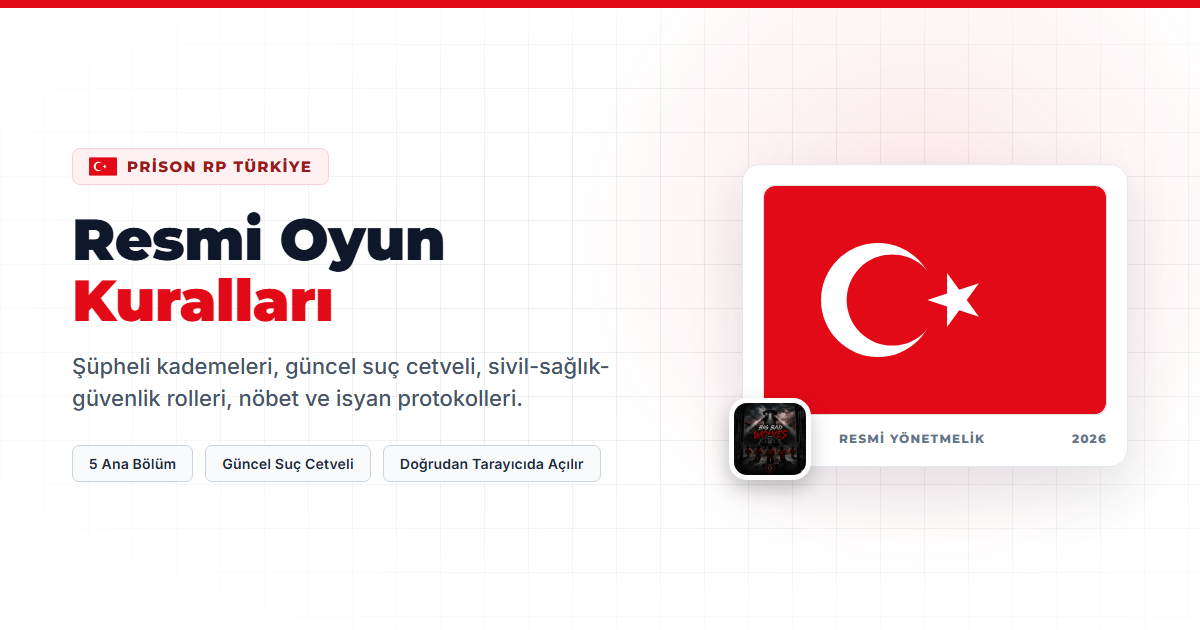
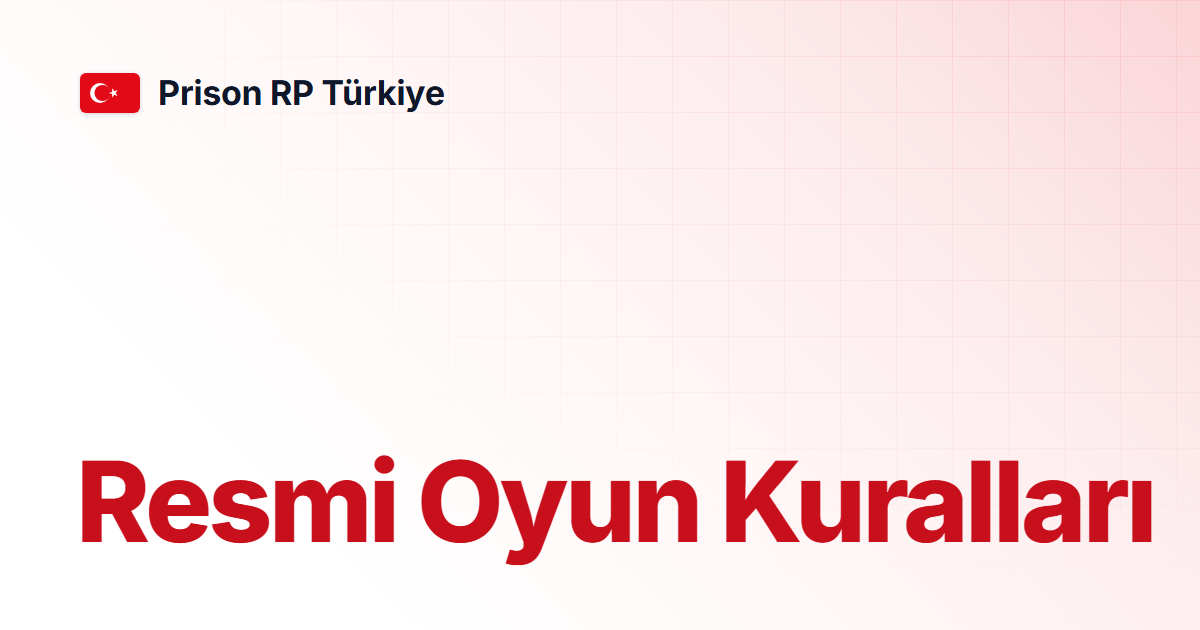
Separate official rules from staff guide; GitBook-style Turkish flag OG card

diff --git a/index.html b/index.html
@@ -13,7 +13,7 @@
   <meta property="og:title" content="Resmi Oyun Kuralları | Prison RP Türkiye">
   <meta property="og:description" content="Şüpheli kademeleri, güncel suç cetveli, sivil/sağlık/güvenlik rolleri, müdür yetkileri, nöbet esasları ve cezaevi disiplin yönetmeliği.">
   <meta property="og:url" content="https://nocternuss.github.io/prison-rp/">
-  <meta property="og:image" content="https://nocternuss.github.io/prison-rp/assets/banner-kurallar.png">
+  <meta property="og:image" content="https://nocternuss.github.io/prison-rp/assets/banner-kurallar.png?v=2">
   <meta property="og:image:type" content="image/png">
   <meta property="og:image:width" content="1200">
   <meta property="og:image:height" content="630">
@@ -22,7 +22,7 @@
   <meta name="twitter:card" content="summary_large_image">
   <meta name="twitter:title" content="Resmi Oyun Kuralları | Prison RP Türkiye">
   <meta name="twitter:description" content="Şüpheli kademeleri, güncel suç cetveli, sivil/sağlık/güvenlik rolleri, müdür yetkileri, nöbet esasları ve cezaevi disiplin yönetmeliği.">
-  <meta name="twitter:image" content="https://nocternuss.github.io/prison-rp/assets/banner-kurallar.png">
+  <meta name="twitter:image" content="https://nocternuss.github.io/prison-rp/assets/banner-kurallar.png?v=2">
 
   <link rel="icon" type="image/svg+xml" href="./assets/favicon.svg">
   <link rel="alternate icon" type="image/png" href="./assets/logo.png">
@@ -917,10 +917,6 @@
       </div>
 
       <div class="nav-actions">
-        <nav class="nav-switcher" aria-label="Belgeler Arası Geçiş">
-          <a href="./" aria-current="page" class="nav-tab is-active"><svg width="15" height="15" viewBox="0 0 24 24" fill="none" stroke="currentColor" stroke-width="2" stroke-linecap="round" stroke-linejoin="round"><path d="M4 19.5A2.5 2.5 0 0 1 6.5 17H20"/><path d="M6.5 2H20v20H6.5A2.5 2.5 0 0 1 4 19.5v-15A2.5 2.5 0 0 1 6.5 2z"/></svg><span>Kurallar</span></a>
-          <a href="./yetkili/" class="nav-tab"><svg width="15" height="15" viewBox="0 0 24 24" fill="none" stroke="currentColor" stroke-width="2" stroke-linecap="round" stroke-linejoin="round"><path d="M12 22s8-4 8-10V5l-8-3-8 3v7c0 6 8 10 8 10z"/></svg><span>Yetkili</span></a>
-        </nav>
         <a href="./downloads/Prison_RP_Resmi_Oyun_Kurallari.pdf" class="pdf-btn" download title="PDF olarak indir">
           <svg width="15" height="15" viewBox="0 0 24 24" fill="none" stroke="currentColor" stroke-width="2" stroke-linecap="round" stroke-linejoin="round"><path d="M21 15v4a2 2 0 0 1-2 2H5a2 2 0 0 1-2-2v-4"/><polyline points="7 10 12 15 17 10"/><line x1="12" y1="15" x2="12" y2="3"/></svg><span class="pdf-label">PDF</span>
         </a>
@@ -949,15 +945,6 @@
 <a class="toc-link" href="#nobet-telsiz-isyan"><span class="toc-tag">Bölüm 4</span><span class="toc-text">Nöbet, Telsiz &amp; İsyan</span></a>
 <a class="toc-link" href="#ihlal-ve-ticket"><span class="toc-tag">Bölüm 5</span><span class="toc-text">Sık İhlaller &amp; Ticket</span></a>
         </nav>
-      </div>
-
-      <div class="side-cross-card">
-        <div class="side-group-title" style="margin:0;padding:0;">Diğer Belge</div>
-        <p>Yetkili kadrosu için Sözel, RP, Zararlı ve Ticket yaptırım rehberine geçin.</p>
-        <a href="./yetkili/" class="side-cross-link">
-          <span>Yetkili Rehberi</span>
-          <svg width="14" height="14" viewBox="0 0 24 24" fill="none" stroke="currentColor" stroke-width="2.2" stroke-linecap="round" stroke-linejoin="round"><line x1="5" y1="12" x2="19" y2="12"/><polyline points="12 5 19 12 12 19"/></svg>
-        </a>
       </div>
     </aside>
 
@@ -1539,8 +1526,6 @@
         <span>Prison RP Türkiye — Resmi Oyun Kuralları ve Cezaevi Yönetmeliği</span>
         <span>
           <a href="./downloads/Prison_RP_Resmi_Oyun_Kurallari.pdf" download>Kurallar PDF İndir</a>
-          ·
-          <a href="./yetkili/">Yetkili Rehberi</a>
         </span>
       </footer>
     </main>

diff --git a/yetkili/index.html b/yetkili/index.html
@@ -917,10 +917,6 @@
       </div>
 
       <div class="nav-actions">
-        <nav class="nav-switcher" aria-label="Belgeler Arası Geçiş">
-          <a href="../" class="nav-tab"><svg width="15" height="15" viewBox="0 0 24 24" fill="none" stroke="currentColor" stroke-width="2" stroke-linecap="round" stroke-linejoin="round"><path d="M4 19.5A2.5 2.5 0 0 1 6.5 17H20"/><path d="M6.5 2H20v20H6.5A2.5 2.5 0 0 1 4 19.5v-15A2.5 2.5 0 0 1 6.5 2z"/></svg><span>Kurallar</span></a>
-          <a href="../yetkili/" aria-current="page" class="nav-tab is-active"><svg width="15" height="15" viewBox="0 0 24 24" fill="none" stroke="currentColor" stroke-width="2" stroke-linecap="round" stroke-linejoin="round"><path d="M12 22s8-4 8-10V5l-8-3-8 3v7c0 6 8 10 8 10z"/></svg><span>Yetkili</span></a>
-        </nav>
         <a href="../downloads/staff.pdf" class="pdf-btn" download title="PDF olarak indir">
           <svg width="15" height="15" viewBox="0 0 24 24" fill="none" stroke="currentColor" stroke-width="2" stroke-linecap="round" stroke-linejoin="round"><path d="M21 15v4a2 2 0 0 1-2 2H5a2 2 0 0 1-2-2v-4"/><polyline points="7 10 12 15 17 10"/><line x1="12" y1="15" x2="12" y2="3"/></svg><span class="pdf-label">PDF</span>
         </a>
@@ -950,15 +946,6 @@
 <a class="toc-link" href="#zararli"><span class="toc-tag">HARMFUL</span><span class="toc-text">Zararlı Eylemler</span></a>
 <a class="toc-link" href="#diger-yaptirimlar"><span class="toc-tag">DİĞER</span><span class="toc-text">Diğer Yaptırımlar</span></a>
         </nav>
-      </div>
-
-      <div class="side-cross-card">
-        <div class="side-group-title" style="margin:0;padding:0;">Diğer Belge</div>
-        <p>Oyuncular için hazırlanmış resmi kurallar ve cezaevi rollerine geçin.</p>
-        <a href="../" class="side-cross-link">
-          <span>Resmi Oyun Kuralları</span>
-          <svg width="14" height="14" viewBox="0 0 24 24" fill="none" stroke="currentColor" stroke-width="2.2" stroke-linecap="round" stroke-linejoin="round"><line x1="5" y1="12" x2="19" y2="12"/><polyline points="12 5 19 12 12 19"/></svg>
-        </a>
       </div>
     </aside>
 
@@ -1423,8 +1410,6 @@
         <span>Prison RP Türkiye — Yetkili Ceza ve Yaptırım Yönetmeliği</span>
         <span>
           <a href="../downloads/staff.pdf" download>Yetkili PDF İndir</a>
-          ·
-          <a href="../">Resmi Oyun Kuralları</a>
         </span>
       </footer>
     </main>
